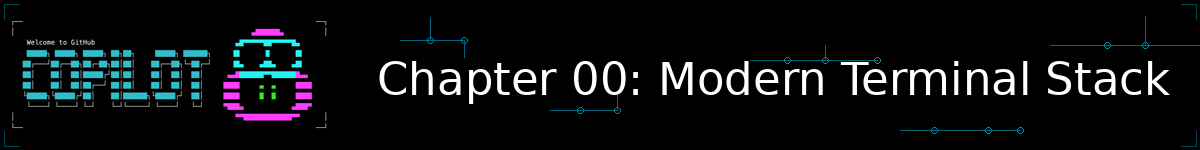
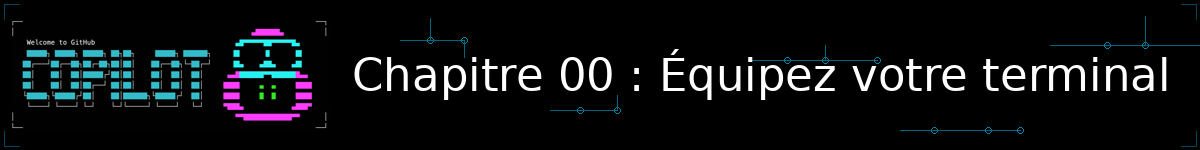
Traduire les titres des chapitres dans les images d'en-tête (#1)
Les titres de chapitre bakés dans chapter-header.png étaient encore en
anglais alors que le reste du cours (frontmatter, texte alternatif,
contenu) est déjà en français.

Changed region(s): [[0.2775, 0.3467, 0.9867, 0.6933], [0.37, 0.3733, 0.4008, 0.4]]

diff --git a/.github/scripts/generate-chapter-headers.py b/.github/scripts/generate-chapter-headers.py
@@ -10,17 +10,17 @@ import sys
 
 # Configuration
 CHAPTERS = {
-    "00-modern-terminal-stack": "Chapter 00: Modern Terminal Stack",
-    "01-quick-start": "Chapter 01: Quick Start",
-    "02-setup-and-first-steps": "Chapter 02: First Steps",
-    "03-context-conversations": "Chapter 03: Context and Conversations",
-    "04-development-workflows": "Chapter 04: Development Workflows",
-    "05-agents-custom-instructions": "Chapter 05: Agents and Custom Instructions",
-    "06-skills": "Chapter 06: Skills System",
-    "07-mcp-servers": "Chapter 07: MCP Servers",
-    "08-putting-it-together": "Chapter 08: Putting It All Together",
-    "09-n8n-workflows": "Chapter 09: n8n Workflows",
-    "10-isolated-environments": "Chapter 10: Isolated Environments",
+    "00-modern-terminal-stack": "Chapitre 00 : Équipez votre terminal",
+    "01-quick-start": "Chapitre 01 : Démarrage rapide",
+    "02-setup-and-first-steps": "Chapitre 02 : Premiers pas",
+    "03-context-conversations": "Chapitre 03 : Contexte et conversations",
+    "04-development-workflows": "Chapitre 04 : Flux de travail de développement",
+    "05-agents-custom-instructions": "Chapitre 05 : Agents et instructions personnalisées",
+    "06-skills": "Chapitre 06 : Système de Skills",
+    "07-mcp-servers": "Chapitre 07 : Serveurs MCP",
+    "08-putting-it-together": "Chapitre 08 : Tout assembler",
+    "09-n8n-workflows": "Chapitre 09 : n8n",
+    "10-isolated-environments": "Chapitre 10 : Environnements isolés",
 }
 
 # Get project root (parent of scripts folder)
